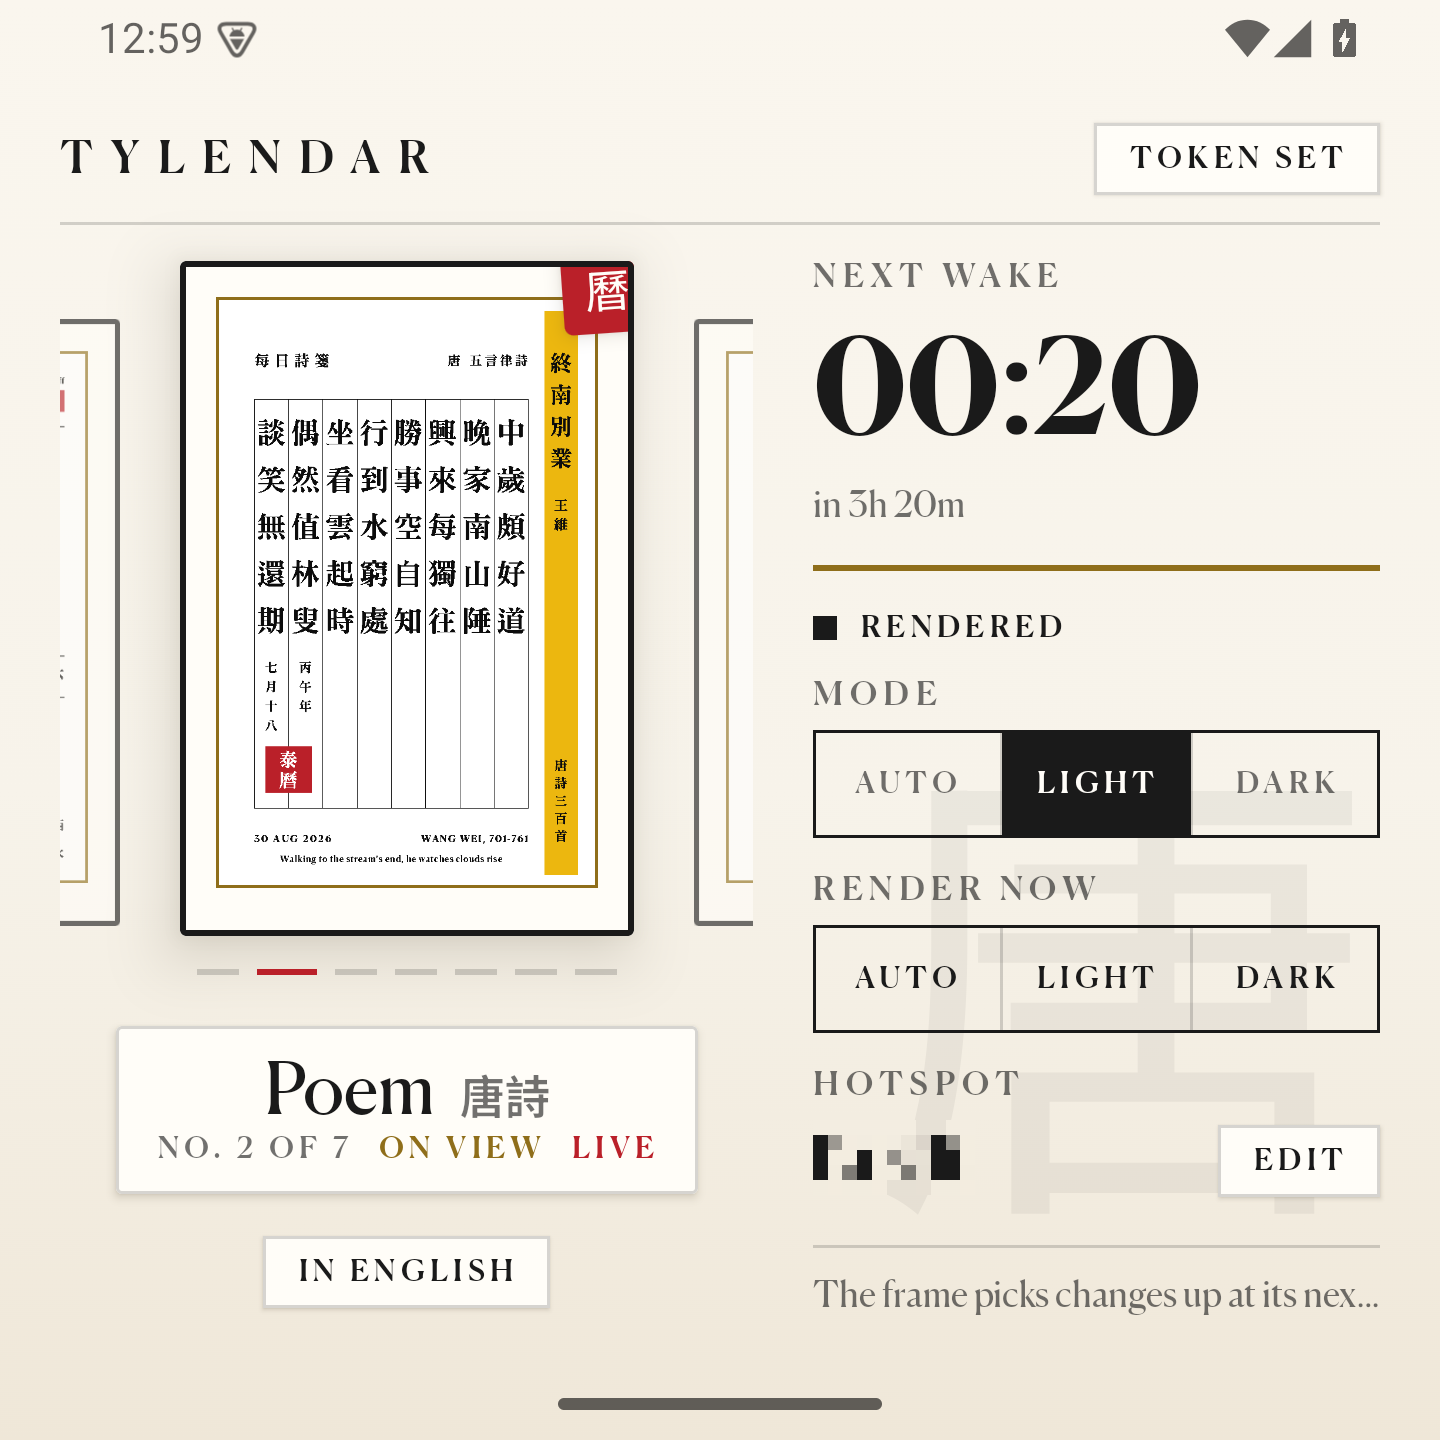
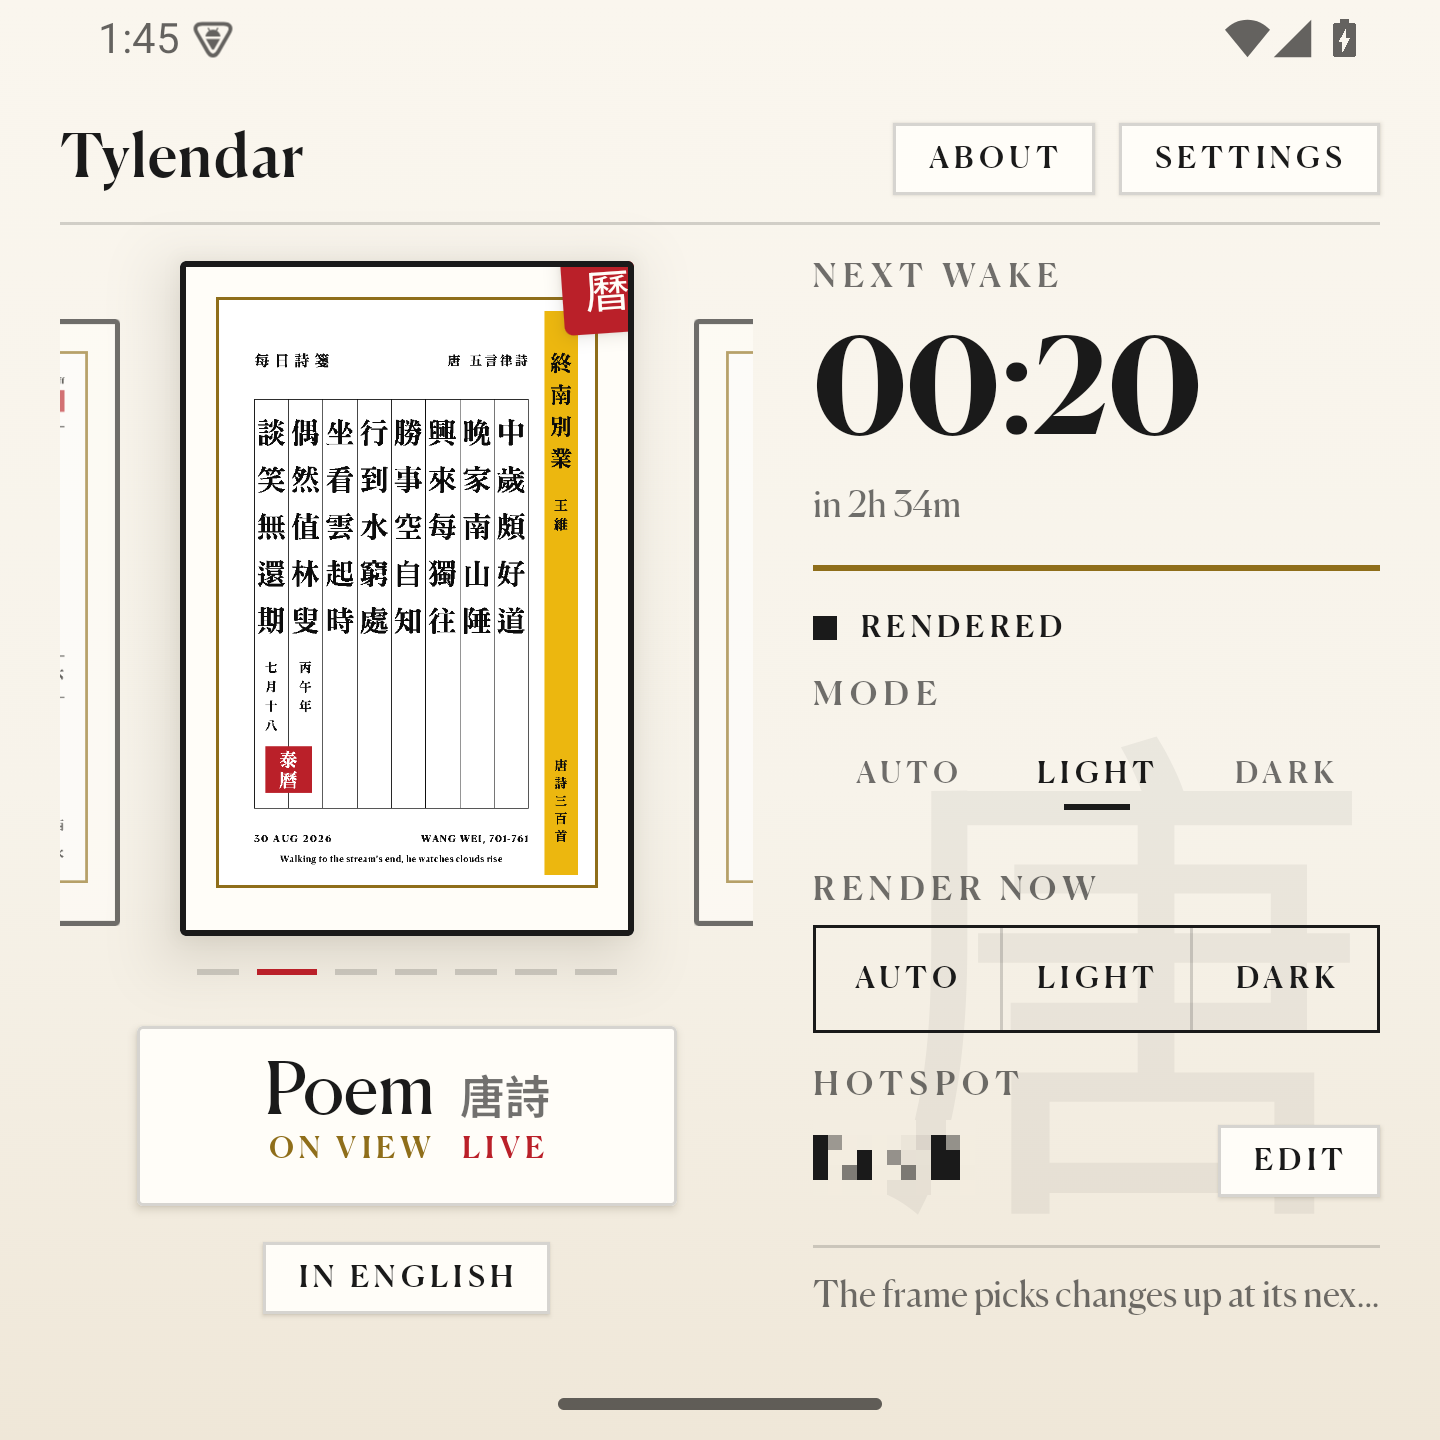
feat: refine app header with about and settings sheets, unbox mode strip

diff --git a/android/app/src/main/java/com/chuatzeyee/tylendar/ui/Home.kt b/android/app/src/main/java/com/chuatzeyee/tylendar/ui/Home.kt
@@ -61,6 +61,7 @@ import androidx.compose.ui.draw.shadow
 import androidx.compose.ui.focus.FocusRequester
 import androidx.compose.ui.focus.focusRequester
 import androidx.compose.ui.graphics.Brush
+import androidx.compose.ui.graphics.Color
 import androidx.compose.ui.graphics.graphicsLayer
 import androidx.compose.ui.input.key.Key
 import androidx.compose.ui.input.key.KeyEventType
@@ -120,7 +121,7 @@ fun App(vm: AppViewModel) {
 
 @Composable
 private fun Wordmark() {
-    Text("TYLENDAR", style = WordmarkStyle)
+    Text("Tylendar", style = WordmarkStyle)
 }
 
 @Composable
@@ -239,6 +240,8 @@ private fun Home(vm: AppViewModel) {
     val s = vm.settings
     var showHotspot by remember { mutableStateOf(false) }
     var showPoem by remember { mutableStateOf(false) }
+    var showAbout by remember { mutableStateOf(false) }
+    var showSettings by remember { mutableStateOf(false) }
     val focus = remember { FocusRequester() }
     LaunchedEffect(Unit) { focus.requestFocus() }
     var wake by remember { mutableStateOf(vm.nextWake()) }
@@ -292,7 +295,7 @@ private fun Home(vm: AppViewModel) {
             val wide = maxWidth >= availH
             if (wide) {
                 Column(Modifier.fillMaxSize()) {
-                    HeaderRow(vm)
+                    HeaderRow({ showAbout = true }, { showSettings = true })
                     Spacer(Modifier.height(12.dp))
                     Row(
                         Modifier.weight(1f),
@@ -316,7 +319,7 @@ private fun Home(vm: AppViewModel) {
                 }
             } else {
                 Column(Modifier.fillMaxSize()) {
-                    HeaderRow(vm)
+                    HeaderRow({ showAbout = true }, { showSettings = true })
                     Spacer(Modifier.height(12.dp))
                     Box {
                         GhostChar(pager, Modifier.align(Alignment.BottomEnd))
@@ -354,10 +357,21 @@ private fun Home(vm: AppViewModel) {
             onDismiss = { showHotspot = false },
         )
     }
+    if (showSettings) {
+        SettingsSheet(
+            hotspot = s?.hotspot ?: "",
+            onEditHotspot = { showHotspot = true },
+            onRemoveToken = vm::removeToken,
+            onDismiss = { showSettings = false },
+        )
+    }
+    if (showAbout) {
+        AboutSheet { showAbout = false }
+    }
 }
 
 @Composable
-private fun HeaderRow(vm: AppViewModel) {
+private fun HeaderRow(onAbout: () -> Unit, onSettings: () -> Unit) {
     Column(Modifier.fillMaxWidth()) {
         Row(
             Modifier.fillMaxWidth().height(30.dp),
@@ -365,7 +379,10 @@ private fun HeaderRow(vm: AppViewModel) {
             verticalAlignment = Alignment.CenterVertically,
         ) {
             Wordmark()
-            Chip("TOKEN SET") { vm.removeToken() }
+            Row(horizontalArrangement = Arrangement.spacedBy(8.dp)) {
+                Chip("ABOUT", onClick = onAbout)
+                Chip("SETTINGS", onClick = onSettings)
+            }
         }
         Spacer(Modifier.height(6.dp))
         /* The picture rail. */
@@ -519,34 +536,32 @@ private fun StatusLine(vm: AppViewModel) {
     }
 }
 
-/* One inked strip, three cells, a sliding ink fill under the labels. */
+/* Bare labels, no box: the chosen mode carries an ink underline. */
 @Composable
 private fun ModeStrip(selected: String?, onSelect: (String) -> Unit) {
-    BoxWithConstraints(Modifier.fillMaxWidth().height(36.dp).border(1.dp, Ink)) {
-        val cellW = maxWidth / MODES.size
-        val x by animateDpAsState(
-            cellW * MODES.indexOf(selected).coerceAtLeast(0),
-            tween(240, easing = FastOutSlowInEasing),
-            label = "modeX",
-        )
-        if (selected != null) {
-            Box(Modifier.offset(x = x).width(cellW).fillMaxHeight().background(Ink))
-        }
-        Row(Modifier.fillMaxSize()) {
-            MODES.forEachIndexed { i, m ->
-                Box(
-                    Modifier.weight(1f).fillMaxHeight().clickable { onSelect(m) },
-                    contentAlignment = Alignment.Center,
-                ) {
-                    Text(
-                        m.uppercase(),
-                        style = MicroStyle,
-                        color = if (m == selected) Mat else InkFaint,
-                    )
-                }
-                if (i < MODES.size - 1) {
-                    Box(Modifier.width(1.dp).fillMaxHeight().background(Hairline))
-                }
+    Row(Modifier.fillMaxWidth().height(36.dp)) {
+        MODES.forEach { m ->
+            val active = m == selected
+            val fg by animateColorAsState(
+                if (active) Ink else InkFaint, tween(160), label = "modeFg",
+            )
+            val bar by animateColorAsState(
+                if (active) Ink else Color.Transparent, tween(160), label = "modeBar",
+            )
+            Column(
+                Modifier
+                    .weight(1f)
+                    .fillMaxHeight()
+                    .clickable(
+                        remember { MutableInteractionSource() },
+                        indication = null,
+                    ) { onSelect(m) },
+                horizontalAlignment = Alignment.CenterHorizontally,
+                verticalArrangement = Arrangement.Center,
+            ) {
+                Text(m.uppercase(), style = MicroStyle, color = fg)
+                Spacer(Modifier.height(5.dp))
+                Box(Modifier.width(22.dp).height(2.dp).background(bar))
             }
         }
     }

diff --git a/android/app/src/main/java/com/chuatzeyee/tylendar/ui/Sheets.kt b/android/app/src/main/java/com/chuatzeyee/tylendar/ui/Sheets.kt
@@ -7,6 +7,7 @@ import androidx.compose.foundation.interaction.MutableInteractionSource
 import androidx.compose.foundation.layout.Arrangement
 import androidx.compose.foundation.layout.Box
 import androidx.compose.foundation.layout.Column
+import androidx.compose.foundation.layout.Row
 import androidx.compose.foundation.layout.Spacer
 import androidx.compose.foundation.layout.fillMaxSize
 import androidx.compose.foundation.layout.fillMaxWidth
@@ -32,11 +33,15 @@ import androidx.compose.ui.Modifier
 import androidx.compose.ui.text.SpanStyle
 import androidx.compose.ui.text.buildAnnotatedString
 import androidx.compose.ui.text.font.FontFamily
+import androidx.compose.ui.platform.LocalContext
+import androidx.compose.ui.platform.LocalUriHandler
 import androidx.compose.ui.text.style.TextAlign
 import androidx.compose.ui.text.withStyle
 import androidx.compose.ui.unit.dp
 import androidx.compose.ui.unit.sp
+import com.chuatzeyee.tylendar.OWNER
 import com.chuatzeyee.tylendar.Poem
+import com.chuatzeyee.tylendar.REPO
 
 @OptIn(ExperimentalMaterial3Api::class)
 @Composable
@@ -84,6 +89,98 @@ fun HotspotSheet(initial: String, onSave: (String) -> Boolean, onDismiss: () -> 
             CommitButton("SAVE", modifier = Modifier.padding(top = 16.dp, bottom = 24.dp)) {
                 if (onSave(value)) onDismiss() else rejected = true
             }
+        }
+    }
+}
+
+@OptIn(ExperimentalMaterial3Api::class)
+@Composable
+fun SettingsSheet(
+    hotspot: String,
+    onEditHotspot: () -> Unit,
+    onRemoveToken: () -> Unit,
+    onDismiss: () -> Unit,
+) {
+    ModalBottomSheet(
+        onDismissRequest = onDismiss,
+        containerColor = Mat,
+        dragHandle = {
+            Box(
+                Modifier.padding(vertical = 10.dp).width(28.dp).height(2.dp).background(Hairline)
+            )
+        },
+    ) {
+        Column(Modifier.padding(24.dp)) {
+            Text("SETTINGS", style = LabelStyle, color = InkFaint)
+            Spacer(Modifier.height(18.dp))
+            Row(verticalAlignment = Alignment.CenterVertically) {
+                Column(Modifier.weight(1f)) {
+                    Text("Hotspot label", style = MaterialTheme.typography.bodyMedium)
+                    Text(hotspot, style = MicroStyle, color = InkFaint)
+                }
+                Chip("EDIT") {
+                    onDismiss()
+                    onEditHotspot()
+                }
+            }
+            Spacer(Modifier.height(16.dp))
+            Box(Modifier.fillMaxWidth().height(1.dp).background(Hairline))
+            Spacer(Modifier.height(16.dp))
+            Row(verticalAlignment = Alignment.CenterVertically) {
+                Column(Modifier.weight(1f)) {
+                    Text("GitHub token", style = MaterialTheme.typography.bodyMedium)
+                    Text("SET ON THIS PHONE", style = MicroStyle, color = InkFaint)
+                }
+                Chip("REMOVE", onClick = onRemoveToken)
+            }
+            Spacer(Modifier.height(24.dp))
+        }
+    }
+}
+
+@OptIn(ExperimentalMaterial3Api::class)
+@Composable
+fun AboutSheet(onDismiss: () -> Unit) {
+    val uri = LocalUriHandler.current
+    val context = LocalContext.current
+    val version = remember {
+        runCatching {
+            context.packageManager.getPackageInfo(context.packageName, 0).versionName
+        }.getOrNull().orEmpty()
+    }
+    ModalBottomSheet(
+        onDismissRequest = onDismiss,
+        containerColor = Mat,
+        dragHandle = {
+            Box(
+                Modifier.padding(vertical = 10.dp).width(28.dp).height(2.dp).background(Hairline)
+            )
+        },
+    ) {
+        Column(
+            Modifier.fillMaxWidth().padding(24.dp),
+            horizontalAlignment = Alignment.CenterHorizontally,
+        ) {
+            Text("Tylendar", style = WordmarkStyle)
+            if (version.isNotEmpty()) {
+                Spacer(Modifier.height(4.dp))
+                Text("VERSION $version", style = MicroStyle, color = InkFaint)
+            }
+            Spacer(Modifier.height(14.dp))
+            Text(
+                "Remote control for the Tylendar frame: a wall mounted daily " +
+                    "Chinese almanac on e-paper. Pick the page on view, switch " +
+                    "modes, or force a render; the frame picks changes up at " +
+                    "its next wake.",
+                style = MaterialTheme.typography.bodyMedium,
+                textAlign = TextAlign.Center,
+            )
+            Spacer(Modifier.height(18.dp))
+            Row(horizontalArrangement = Arrangement.spacedBy(8.dp)) {
+                Chip("SOURCE ON GITHUB") { uri.openUri("https://github.com/$OWNER/$REPO") }
+                Chip("WEB PORTAL") { uri.openUri("https://$OWNER.github.io/$REPO/") }
+            }
+            Spacer(Modifier.height(24.dp))
         }
     }
 }

diff --git a/android/app/src/main/java/com/chuatzeyee/tylendar/ui/Gallery.kt b/android/app/src/main/java/com/chuatzeyee/tylendar/ui/Gallery.kt
@@ -254,10 +254,10 @@ internal fun Gallery(
                         )
                     }
                     Spacer(Modifier.height(2.dp))
-                    Row {
-                        Text("NO. ${i + 1} OF ${PAGES.size}", style = MicroStyle, color = InkFaint)
+                    /* Fixed height so the label card never jumps between
+                       the committed page and the rest. */
+                    Row(Modifier.height(14.dp)) {
                         if (i == committedIdx) {
-                            Spacer(Modifier.width(10.dp))
                             Text("ON VIEW", style = MicroStyle, color = Brass)
                             Spacer(Modifier.width(10.dp))
                             if (vm.previewIsLive) {

diff --git a/android/app/src/main/java/com/chuatzeyee/tylendar/ui/Theme.kt b/android/app/src/main/java/com/chuatzeyee/tylendar/ui/Theme.kt
@@ -38,8 +38,8 @@ val Canela = FontFamily(
 val WordmarkStyle = TextStyle(
     fontFamily = Canela,
     fontWeight = FontWeight.Medium,
-    fontSize = 15.sp,
-    letterSpacing = 6.sp,
+    fontSize = 20.sp,
+    letterSpacing = 0.5.sp,
     color = Ink,
 )
 
@@ -51,7 +51,7 @@ val LabelStyle = TextStyle(
     letterSpacing = 2.2.sp,
 )
 
-/* Plaque text: buttons, chips, NO. 4 OF 7, ON VIEW. */
+/* Plaque text: buttons, chips, ON VIEW. */
 val MicroStyle = TextStyle(
     fontFamily = Canela,
     fontWeight = FontWeight.Medium,
